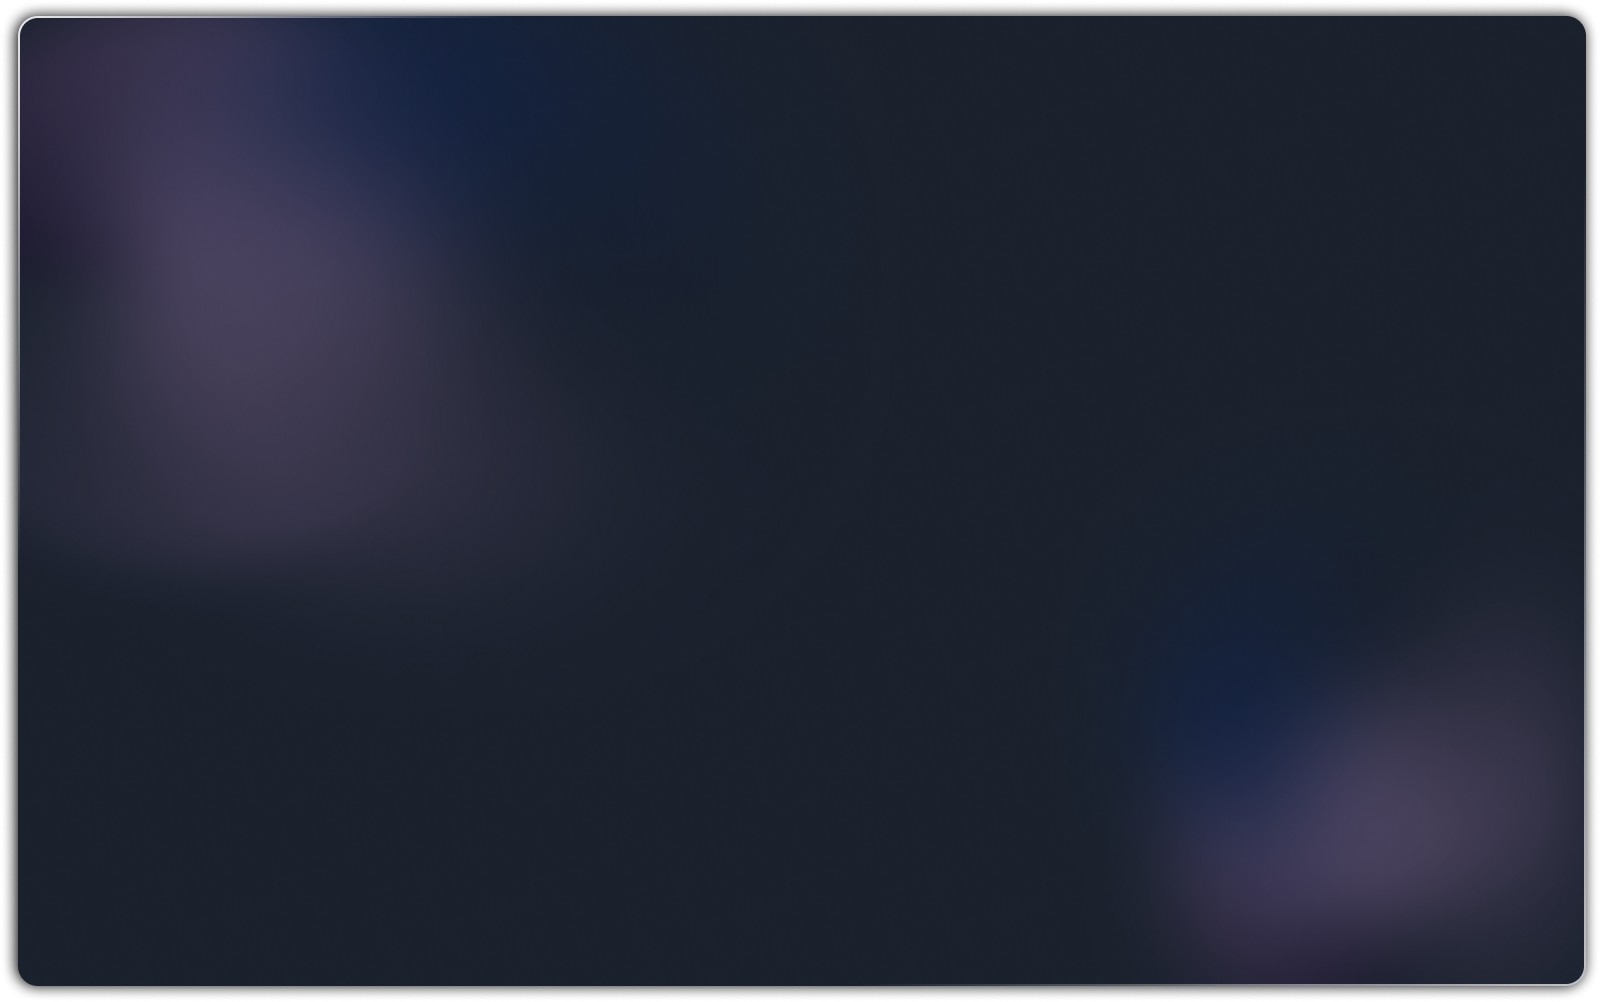
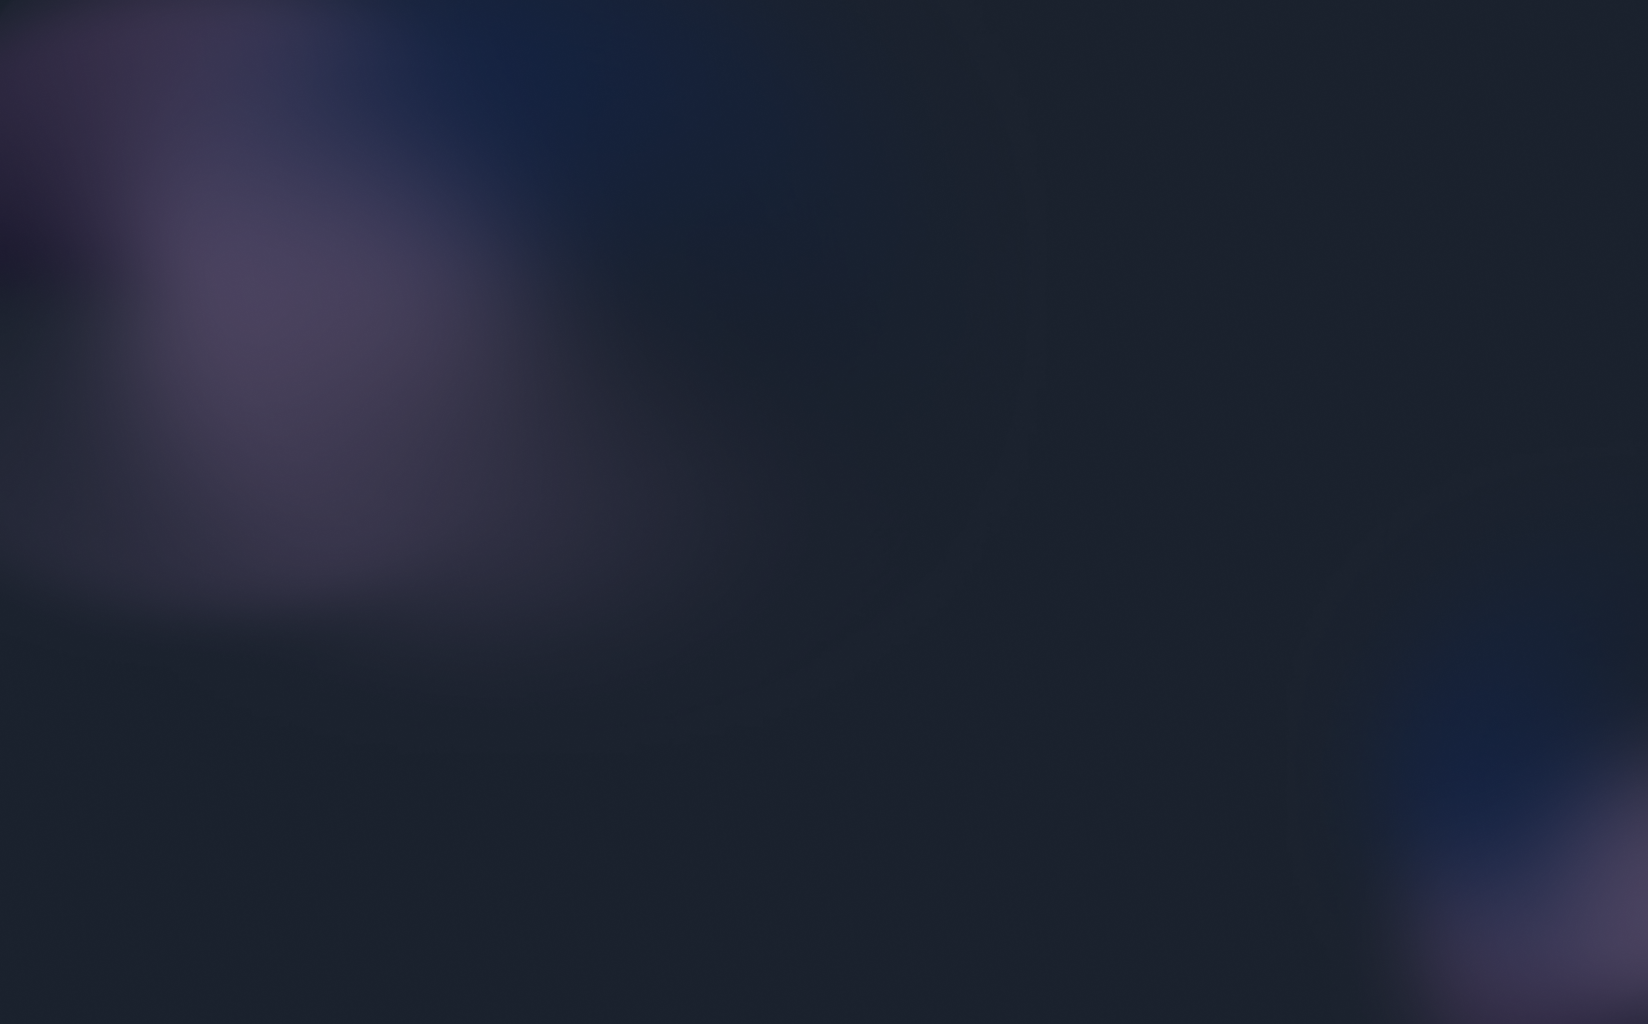
Background changed

Changed region(s): [[0.0, 0.0, 1.0, 1.0]]

diff --git a/components/Poker.js b/components/Poker.js
@@ -6,7 +6,7 @@ import bars from "../assets/bars.png";
 const Poker = () => {
   return (
     //PokerInterface
-    <div className="bg-black h-screen flex justify-center items-center">
+    <div className="bg-[url('../assets/backgroundPoker.png')] bg-no-repeat bg-cover left-0 top-0 h-screen flex justify-center items-center">
       {/*ImagePokerTable*/}
       <div>
         <Image src={table} alt="tablePoker" />

diff --git a/tailwind.config.js b/tailwind.config.js
@@ -21,7 +21,6 @@ module.exports = {
       primary: "#0B1E3E",
       secondary: "rgba(51, 233, 198, 0.15)",
       white: "#fff",
-      backgroundPoker: "rgba(51, 233, 198, 0.132);",
       pinkPoker: "#FE17FF80",
       pinkPokerBorder: "#FE17FF",
     },
